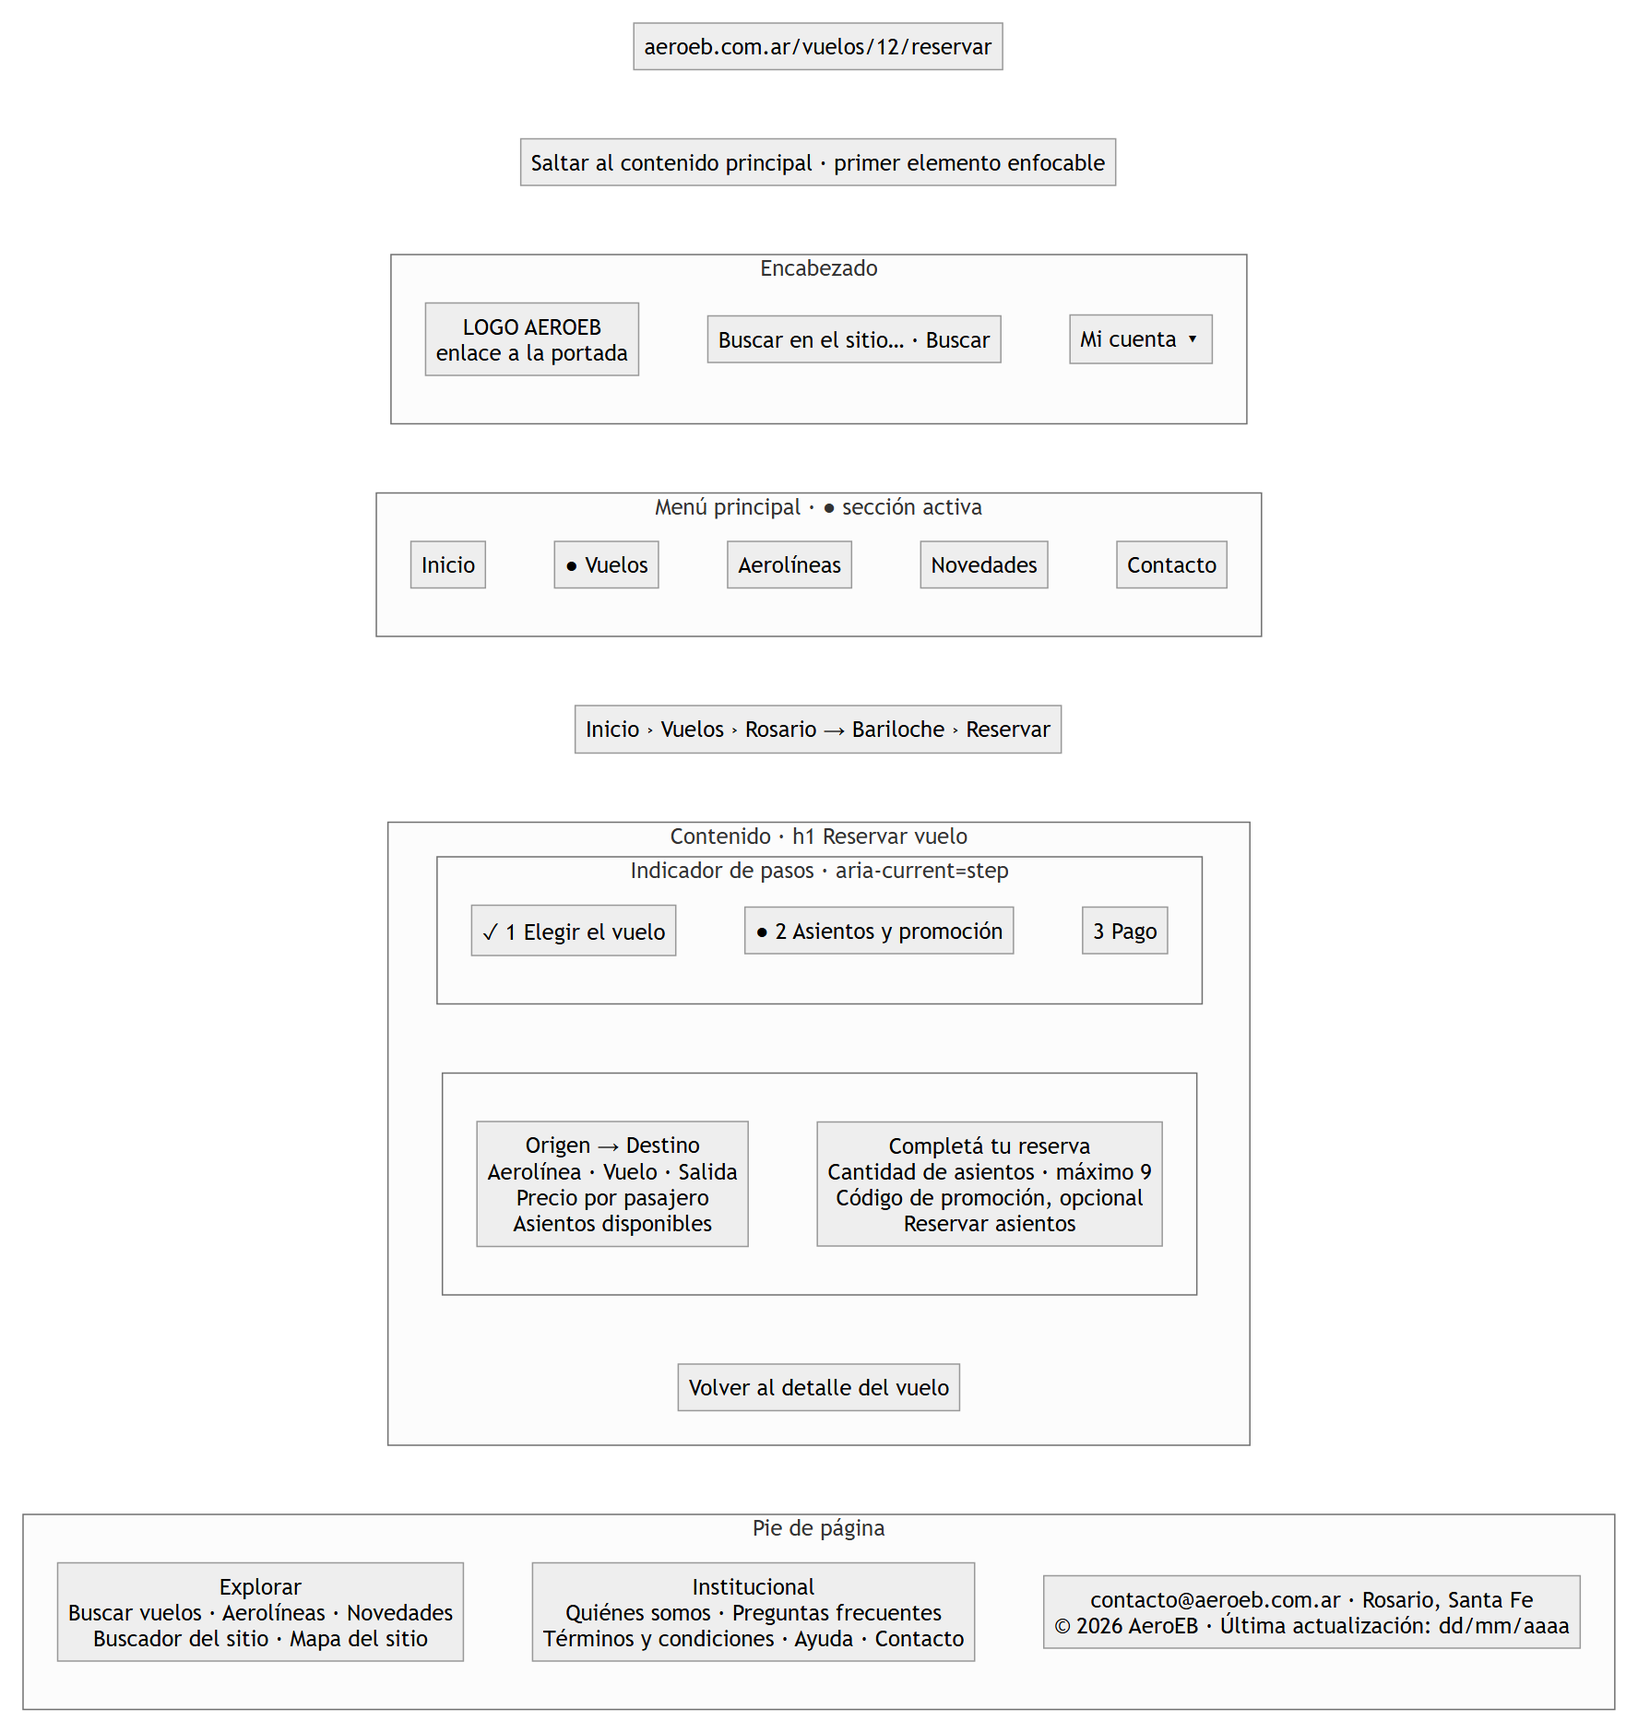
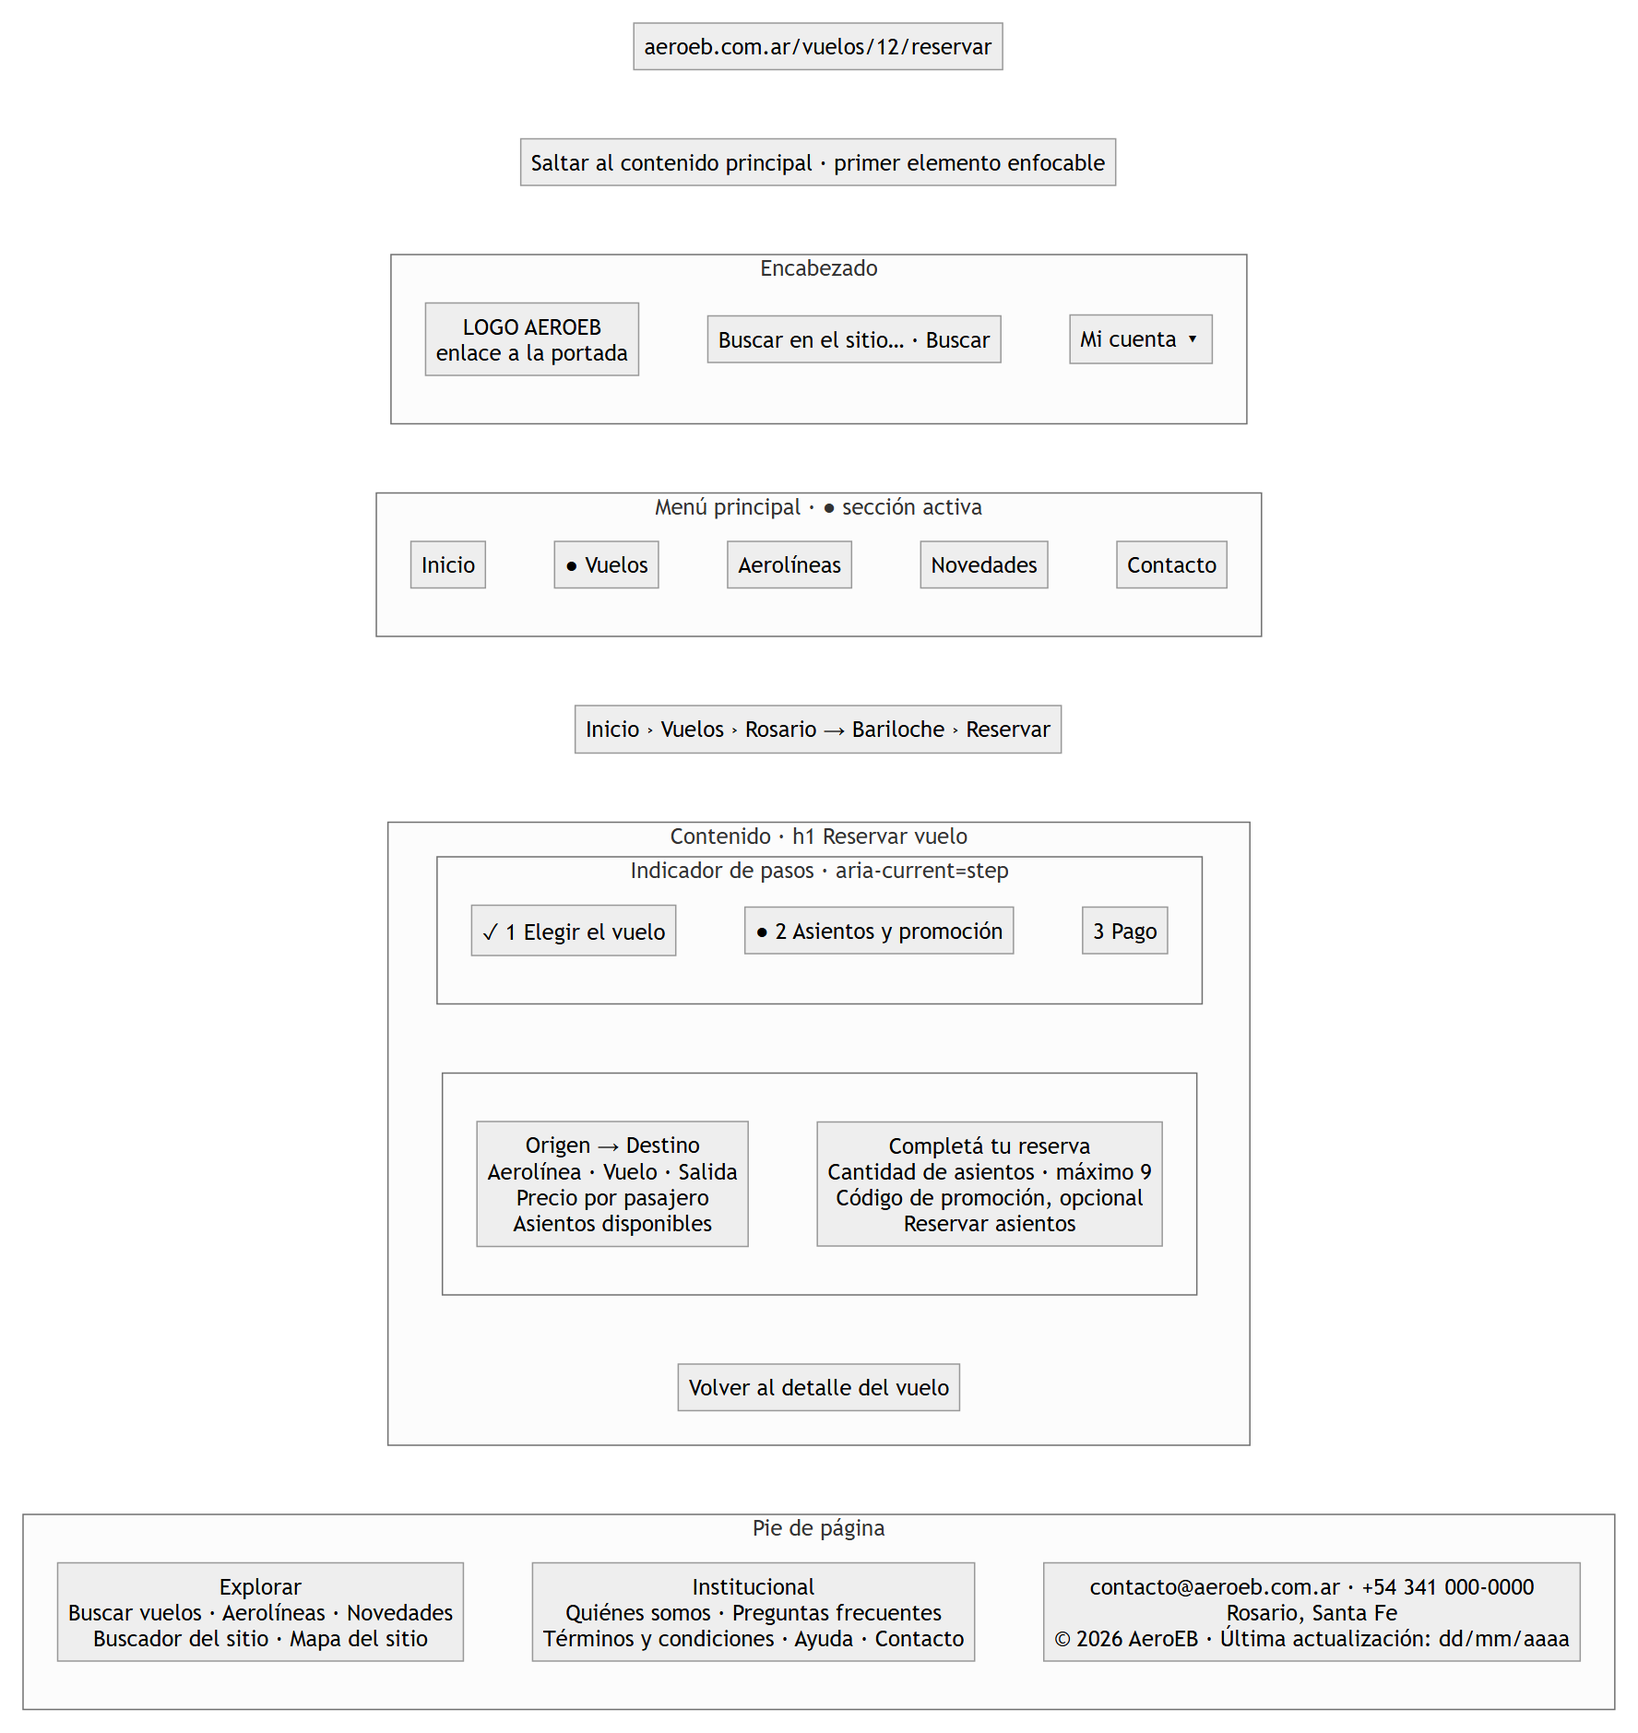
feat(ui): agrega un teléfono de contacto de muestra
El checklist de la cátedra pide información de contacto fuera de Internet.
Se agrega +54 341 000-0000 en el pie y en Contacto. Es un número de muestra
que no puede ser de nadie (no hay líneas que empiecen con 000), porque el
proyecto es académico y no tiene una línea real. Se actualizan el
checklist, las tareas y los wireframes.

Changed region(s): [[0.6503, 0.8952, 0.96, 0.9569]]

diff --git a/src/Views/partials/footer.php b/src/Views/partials/footer.php
@@ -15,6 +15,7 @@
                 </p>
                 <address class="ae-bajada mt-3 mb-0">
                     <a href="mailto:contacto@aeroeb.com.ar">contacto@aeroeb.com.ar</a><br>
+                    Teléfono: +54 341 000-0000<br>
                     Rosario, Santa Fe, Argentina<br>
                     Lunes a viernes, de 9 a 18 h
                 </address>

diff --git a/src/Views/publico/contacto.php b/src/Views/publico/contacto.php
@@ -86,6 +86,9 @@
             <dt>Correo</dt>
             <dd><a href="mailto:contacto@aeroeb.com.ar">contacto@aeroeb.com.ar</a></dd>
 
+            <dt>Teléfono</dt>
+            <dd>+54 341 000-0000</dd>
+
             <dt>Horario de atención</dt>
             <dd>Lunes a viernes, de 9 a 18 h</dd>
 

diff --git a/docs/bocetos/01-wireframes/README.md b/docs/bocetos/01-wireframes/README.md
@@ -21,7 +21,7 @@ Corregido después de la exposición. Se sacó lo que no tenía sentido:
 - **Mis reservas**: "Cancelar" ya no está en la tabla, sino en el detalle de la reserva.
 - **Menús laterales**: se sacó "Cerrar sesión", que ya está en "Mi cuenta ▾".
 - **Panel del CEO**: "Duplicar" va en cada vuelo, y el gráfico es una tabla con barras.
-- **Contacto**: se sacó el teléfono inventado.
+- **Contacto**: el teléfono es de muestra, porque el proyecto no tiene una línea real.
 - **Registro**: un solo campo "Nombre y apellido", como el modelo de datos (nombreUsuario).
 
 Las imágenes para el informe están en [`png/`](png/). Las capturas del sitio real
@@ -49,7 +49,7 @@ flowchart TB
     end
     subgraph pie["Pie de página"]
         direction LR
-        explorar["Explorar<br/>Buscar vuelos · Aerolíneas · Novedades<br/>Buscador del sitio · Mapa del sitio"] ~~~ institucional["Institucional<br/>Quiénes somos · Preguntas frecuentes<br/>Términos y condiciones · Ayuda · Contacto"] ~~~ legal["contacto@aeroeb.com.ar · Rosario, Santa Fe<br/>© 2026 AeroEB · Última actualización: dd/mm/aaaa"]
+        explorar["Explorar<br/>Buscar vuelos · Aerolíneas · Novedades<br/>Buscador del sitio · Mapa del sitio"] ~~~ institucional["Institucional<br/>Quiénes somos · Preguntas frecuentes<br/>Términos y condiciones · Ayuda · Contacto"] ~~~ legal["contacto@aeroeb.com.ar · +54 341 000-0000<br/>Rosario, Santa Fe<br/>© 2026 AeroEB · Última actualización: dd/mm/aaaa"]
     end
     url ~~~ salto ~~~ enc ~~~ menu ~~~ migas ~~~ cont ~~~ pie
 ```
@@ -95,7 +95,7 @@ flowchart TB
     end
     subgraph pie["Pie de página"]
         direction LR
-        explorar["Explorar<br/>Buscar vuelos · Aerolíneas · Novedades<br/>Buscador del sitio · Mapa del sitio"] ~~~ institucional["Institucional<br/>Quiénes somos · Preguntas frecuentes<br/>Términos y condiciones · Ayuda · Contacto"] ~~~ legal["contacto@aeroeb.com.ar · Rosario, Santa Fe<br/>© 2026 AeroEB · Última actualización: dd/mm/aaaa"]
+        explorar["Explorar<br/>Buscar vuelos · Aerolíneas · Novedades<br/>Buscador del sitio · Mapa del sitio"] ~~~ institucional["Institucional<br/>Quiénes somos · Preguntas frecuentes<br/>Términos y condiciones · Ayuda · Contacto"] ~~~ legal["contacto@aeroeb.com.ar · +54 341 000-0000<br/>Rosario, Santa Fe<br/>© 2026 AeroEB · Última actualización: dd/mm/aaaa"]
     end
     url ~~~ salto ~~~ enc ~~~ menu ~~~ cont ~~~ pie
 ```
@@ -136,7 +136,7 @@ flowchart TB
     end
     subgraph pie["Pie de página"]
         direction LR
-        explorar["Explorar<br/>Buscar vuelos · Aerolíneas · Novedades<br/>Buscador del sitio · Mapa del sitio"] ~~~ institucional["Institucional<br/>Quiénes somos · Preguntas frecuentes<br/>Términos y condiciones · Ayuda · Contacto"] ~~~ legal["contacto@aeroeb.com.ar · Rosario, Santa Fe<br/>© 2026 AeroEB · Última actualización: dd/mm/aaaa"]
+        explorar["Explorar<br/>Buscar vuelos · Aerolíneas · Novedades<br/>Buscador del sitio · Mapa del sitio"] ~~~ institucional["Institucional<br/>Quiénes somos · Preguntas frecuentes<br/>Términos y condiciones · Ayuda · Contacto"] ~~~ legal["contacto@aeroeb.com.ar · +54 341 000-0000<br/>Rosario, Santa Fe<br/>© 2026 AeroEB · Última actualización: dd/mm/aaaa"]
     end
     url ~~~ salto ~~~ enc ~~~ menu ~~~ migas ~~~ cont ~~~ pie
 ```
@@ -165,7 +165,7 @@ flowchart TB
     end
     subgraph pie["Pie de página"]
         direction LR
-        explorar["Explorar<br/>Buscar vuelos · Aerolíneas · Novedades<br/>Buscador del sitio · Mapa del sitio"] ~~~ institucional["Institucional<br/>Quiénes somos · Preguntas frecuentes<br/>Términos y condiciones · Ayuda · Contacto"] ~~~ legal["contacto@aeroeb.com.ar · Rosario, Santa Fe<br/>© 2026 AeroEB · Última actualización: dd/mm/aaaa"]
+        explorar["Explorar<br/>Buscar vuelos · Aerolíneas · Novedades<br/>Buscador del sitio · Mapa del sitio"] ~~~ institucional["Institucional<br/>Quiénes somos · Preguntas frecuentes<br/>Términos y condiciones · Ayuda · Contacto"] ~~~ legal["contacto@aeroeb.com.ar · +54 341 000-0000<br/>Rosario, Santa Fe<br/>© 2026 AeroEB · Última actualización: dd/mm/aaaa"]
     end
     url ~~~ salto ~~~ enc ~~~ menu ~~~ migas ~~~ cont ~~~ pie
 ```
@@ -202,7 +202,7 @@ flowchart TB
     end
     subgraph pie["Pie de página"]
         direction LR
-        explorar["Explorar<br/>Buscar vuelos · Aerolíneas · Novedades<br/>Buscador del sitio · Mapa del sitio"] ~~~ institucional["Institucional<br/>Quiénes somos · Preguntas frecuentes<br/>Términos y condiciones · Ayuda · Contacto"] ~~~ legal["contacto@aeroeb.com.ar · Rosario, Santa Fe<br/>© 2026 AeroEB · Última actualización: dd/mm/aaaa"]
+        explorar["Explorar<br/>Buscar vuelos · Aerolíneas · Novedades<br/>Buscador del sitio · Mapa del sitio"] ~~~ institucional["Institucional<br/>Quiénes somos · Preguntas frecuentes<br/>Términos y condiciones · Ayuda · Contacto"] ~~~ legal["contacto@aeroeb.com.ar · +54 341 000-0000<br/>Rosario, Santa Fe<br/>© 2026 AeroEB · Última actualización: dd/mm/aaaa"]
     end
     url ~~~ salto ~~~ enc ~~~ menu ~~~ migas ~~~ cont ~~~ pie
 ```
@@ -240,7 +240,7 @@ flowchart TB
     end
     subgraph pie["Pie de página"]
         direction LR
-        explorar["Explorar<br/>Buscar vuelos · Aerolíneas · Novedades<br/>Buscador del sitio · Mapa del sitio"] ~~~ institucional["Institucional<br/>Quiénes somos · Preguntas frecuentes<br/>Términos y condiciones · Ayuda · Contacto"] ~~~ legal["contacto@aeroeb.com.ar · Rosario, Santa Fe<br/>© 2026 AeroEB · Última actualización: dd/mm/aaaa"]
+        explorar["Explorar<br/>Buscar vuelos · Aerolíneas · Novedades<br/>Buscador del sitio · Mapa del sitio"] ~~~ institucional["Institucional<br/>Quiénes somos · Preguntas frecuentes<br/>Términos y condiciones · Ayuda · Contacto"] ~~~ legal["contacto@aeroeb.com.ar · +54 341 000-0000<br/>Rosario, Santa Fe<br/>© 2026 AeroEB · Última actualización: dd/mm/aaaa"]
     end
     url ~~~ salto ~~~ enc ~~~ menu ~~~ migas ~~~ cont ~~~ pie
 ```
@@ -277,7 +277,7 @@ flowchart TB
     end
     subgraph pie["Pie de página"]
         direction LR
-        explorar["Explorar<br/>Buscar vuelos · Aerolíneas · Novedades<br/>Buscador del sitio · Mapa del sitio"] ~~~ institucional["Institucional<br/>Quiénes somos · Preguntas frecuentes<br/>Términos y condiciones · Ayuda · Contacto"] ~~~ legal["contacto@aeroeb.com.ar · Rosario, Santa Fe<br/>© 2026 AeroEB · Última actualización: dd/mm/aaaa"]
+        explorar["Explorar<br/>Buscar vuelos · Aerolíneas · Novedades<br/>Buscador del sitio · Mapa del sitio"] ~~~ institucional["Institucional<br/>Quiénes somos · Preguntas frecuentes<br/>Términos y condiciones · Ayuda · Contacto"] ~~~ legal["contacto@aeroeb.com.ar · +54 341 000-0000<br/>Rosario, Santa Fe<br/>© 2026 AeroEB · Última actualización: dd/mm/aaaa"]
     end
     url ~~~ salto ~~~ enc ~~~ menu ~~~ migas ~~~ cont ~~~ pie
 ```
@@ -306,7 +306,7 @@ flowchart TB
     end
     subgraph pie["Pie de página"]
         direction LR
-        explorar["Explorar<br/>Buscar vuelos · Aerolíneas · Novedades<br/>Buscador del sitio · Mapa del sitio"] ~~~ institucional["Institucional<br/>Quiénes somos · Preguntas frecuentes<br/>Términos y condiciones · Ayuda · Contacto"] ~~~ legal["contacto@aeroeb.com.ar · Rosario, Santa Fe<br/>© 2026 AeroEB · Última actualización: dd/mm/aaaa"]
+        explorar["Explorar<br/>Buscar vuelos · Aerolíneas · Novedades<br/>Buscador del sitio · Mapa del sitio"] ~~~ institucional["Institucional<br/>Quiénes somos · Preguntas frecuentes<br/>Términos y condiciones · Ayuda · Contacto"] ~~~ legal["contacto@aeroeb.com.ar · +54 341 000-0000<br/>Rosario, Santa Fe<br/>© 2026 AeroEB · Última actualización: dd/mm/aaaa"]
     end
     url ~~~ salto ~~~ enc ~~~ menu ~~~ migas ~~~ cont ~~~ pie
 ```
@@ -347,7 +347,7 @@ flowchart TB
     end
     subgraph pie["Pie de página"]
         direction LR
-        explorar["Explorar<br/>Buscar vuelos · Aerolíneas · Novedades<br/>Buscador del sitio · Mapa del sitio"] ~~~ institucional["Institucional<br/>Quiénes somos · Preguntas frecuentes<br/>Términos y condiciones · Ayuda · Contacto"] ~~~ legal["contacto@aeroeb.com.ar · Rosario, Santa Fe<br/>© 2026 AeroEB · Última actualización: dd/mm/aaaa"]
+        explorar["Explorar<br/>Buscar vuelos · Aerolíneas · Novedades<br/>Buscador del sitio · Mapa del sitio"] ~~~ institucional["Institucional<br/>Quiénes somos · Preguntas frecuentes<br/>Términos y condiciones · Ayuda · Contacto"] ~~~ legal["contacto@aeroeb.com.ar · +54 341 000-0000<br/>Rosario, Santa Fe<br/>© 2026 AeroEB · Última actualización: dd/mm/aaaa"]
     end
     url ~~~ salto ~~~ enc ~~~ menu ~~~ migas ~~~ cont ~~~ pie
 ```
@@ -389,7 +389,7 @@ flowchart TB
     end
     subgraph pie["Pie de página"]
         direction LR
-        explorar["Explorar<br/>Buscar vuelos · Aerolíneas · Novedades<br/>Buscador del sitio · Mapa del sitio"] ~~~ institucional["Institucional<br/>Quiénes somos · Preguntas frecuentes<br/>Términos y condiciones · Ayuda · Contacto"] ~~~ legal["contacto@aeroeb.com.ar · Rosario, Santa Fe<br/>© 2026 AeroEB · Última actualización: dd/mm/aaaa"]
+        explorar["Explorar<br/>Buscar vuelos · Aerolíneas · Novedades<br/>Buscador del sitio · Mapa del sitio"] ~~~ institucional["Institucional<br/>Quiénes somos · Preguntas frecuentes<br/>Términos y condiciones · Ayuda · Contacto"] ~~~ legal["contacto@aeroeb.com.ar · +54 341 000-0000<br/>Rosario, Santa Fe<br/>© 2026 AeroEB · Última actualización: dd/mm/aaaa"]
     end
     url ~~~ salto ~~~ enc ~~~ menu ~~~ migas ~~~ cont ~~~ pie
 ```
@@ -414,11 +414,11 @@ flowchart TB
     migas["Inicio › Contacto"]
     subgraph cont["Contenido · h1 Contacto · respondemos dentro de las 48 h hábiles"]
         direction LR
-        form["Nombre y apellido *<br/>Correo electrónico *<br/>Asunto * · lista<br/>Mensaje *<br/>validación en cliente y servidor · token CSRF<br/>Enviar mensaje"] ~~~ datos["Datos de contacto<br/>Correo · Horario de atención<br/>Rosario, Santa Fe<br/>Antes de escribir: Mis reservas"]
+        form["Nombre y apellido *<br/>Correo electrónico *<br/>Asunto * · lista<br/>Mensaje *<br/>validación en cliente y servidor · token CSRF<br/>Enviar mensaje"] ~~~ datos["Datos de contacto<br/>Correo · Teléfono · Horario<br/>Rosario, Santa Fe<br/>Antes de escribir: Mis reservas"]
     end
     subgraph pie["Pie de página"]
         direction LR
-        explorar["Explorar<br/>Buscar vuelos · Aerolíneas · Novedades<br/>Buscador del sitio · Mapa del sitio"] ~~~ institucional["Institucional<br/>Quiénes somos · Preguntas frecuentes<br/>Términos y condiciones · Ayuda · Contacto"] ~~~ legal["contacto@aeroeb.com.ar · Rosario, Santa Fe<br/>© 2026 AeroEB · Última actualización: dd/mm/aaaa"]
+        explorar["Explorar<br/>Buscar vuelos · Aerolíneas · Novedades<br/>Buscador del sitio · Mapa del sitio"] ~~~ institucional["Institucional<br/>Quiénes somos · Preguntas frecuentes<br/>Términos y condiciones · Ayuda · Contacto"] ~~~ legal["contacto@aeroeb.com.ar · +54 341 000-0000<br/>Rosario, Santa Fe<br/>© 2026 AeroEB · Última actualización: dd/mm/aaaa"]
     end
     url ~~~ salto ~~~ enc ~~~ menu ~~~ migas ~~~ cont ~~~ pie
 ```
@@ -447,7 +447,7 @@ flowchart TB
     end
     subgraph pie["Pie de página"]
         direction LR
-        explorar["Explorar<br/>Buscar vuelos · Aerolíneas · Novedades<br/>Buscador del sitio · Mapa del sitio"] ~~~ institucional["Institucional<br/>Quiénes somos · Preguntas frecuentes<br/>Términos y condiciones · Ayuda · Contacto"] ~~~ legal["contacto@aeroeb.com.ar · Rosario, Santa Fe<br/>© 2026 AeroEB · Última actualización: dd/mm/aaaa"]
+        explorar["Explorar<br/>Buscar vuelos · Aerolíneas · Novedades<br/>Buscador del sitio · Mapa del sitio"] ~~~ institucional["Institucional<br/>Quiénes somos · Preguntas frecuentes<br/>Términos y condiciones · Ayuda · Contacto"] ~~~ legal["contacto@aeroeb.com.ar · +54 341 000-0000<br/>Rosario, Santa Fe<br/>© 2026 AeroEB · Última actualización: dd/mm/aaaa"]
     end
     url ~~~ salto ~~~ enc ~~~ menu ~~~ migas ~~~ cont ~~~ pie
 ```

diff --git a/docs/checklists/comprobacion-guia-web.md b/docs/checklists/comprobacion-guia-web.md
@@ -20,7 +20,7 @@ Antes de entregar hay que volver a pasar por los ítems marcados **Pendiente**.
 | ¿La portada refleja la identidad y pertenencia de la institución? | Sí | Logo y nombre AeroEB en el encabezado, lema "Compará y reservá vuelos de todas las aerolíneas" y un primer bloque que explica qué es el sitio |
 | ¿Hay elementos de la imagen corporativa en la portada? ¿Se repiten en todas las páginas? | Sí | Logo, paleta y tipografía propias en el encabezado y el pie de todas las páginas |
 | ¿El logotipo está en un lugar importante en la portada y en las páginas interiores? | Sí | Arriba a la izquierda en todas las páginas, enlazado a la portada |
-| ¿Todas las páginas tienen un título con el nombre de la institución e información de contacto virtual y física al pie? | Sí | El `<title>` de cada página termina en "— AeroEB". El pie muestra el correo, la ciudad (Rosario, Santa Fe) y el horario de atención |
+| ¿Todas las páginas tienen un título con el nombre de la institución e información de contacto virtual y física al pie? | Sí | El `<title>` de cada página termina en "— AeroEB". El pie muestra el correo, el teléfono, la ciudad (Rosario, Santa Fe) y el horario de atención |
 
 ### Utilidad del sitio web
 
@@ -76,7 +76,7 @@ Antes de entregar hay que volver a pasar por los ítems marcados **Pendiente**.
 | Contenido | Cumple | Observaciones |
 |---|---|---|
 | ¿Hay una página explicativa para errores como el 404? | Sí | 404 con enlaces a la portada, a los vuelos, al mapa del sitio y a contacto |
-| ¿Da información de contacto fuera de Internet (teléfono, 0800, mesa de ayuda)? | No | Muestra la ciudad y el horario de atención, pero no un teléfono: es un proyecto académico sin línea telefónica, y poner un número inventado sería un dato falso |
+| ¿Da información de contacto fuera de Internet (teléfono, 0800, mesa de ayuda)? | Sí | Teléfono, ciudad y horario de atención en el pie de todas las páginas y en Contacto. El número (+54 341 000-0000) es de muestra: el proyecto es académico y no tiene una línea real |
 | ¿Tiene un área de preguntas frecuentes? | Sí | Institucional › Preguntas frecuentes |
 | ¿Tiene páginas de ayuda que explican cómo usar el sitio? | Sí | Página de Ayuda, paso a paso, con glosario |
 

diff --git a/docs/tareas.md b/docs/tareas.md
@@ -284,7 +284,7 @@ para el punto 14 del informe. Lo que no se cumplía y se corrigió:
 - [x] **Enlaces visitados** diferenciados (violeta)
 - [x] **Contacto virtual y físico en el pie** de todas las páginas
 - [x] **Misión, visión, objetivos y equipo** en Quiénes somos
-- [ ] Teléfono de contacto: queda como "No", justificado (no hay una línea real)
+- [x] Teléfono de contacto de muestra (+54 341 000-0000) en el pie y en Contacto
 - [ ] Los ítems "Pendiente" del checklist, que dependen de la URL pública
 - [ ] Reemplazar en el informe (puntos 5.a, 5.b, 5.c y 6) las figuras viejas por las de
       `docs/diagramas/png/` y `docs/bocetos/01-wireframes/png/`, y la tabla de navegación
